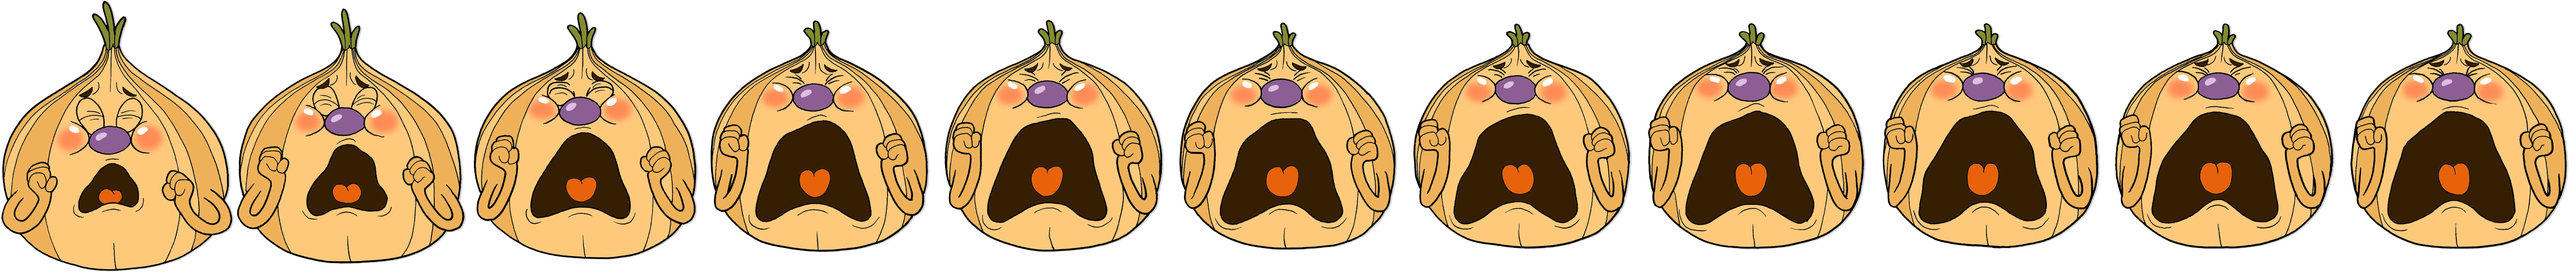
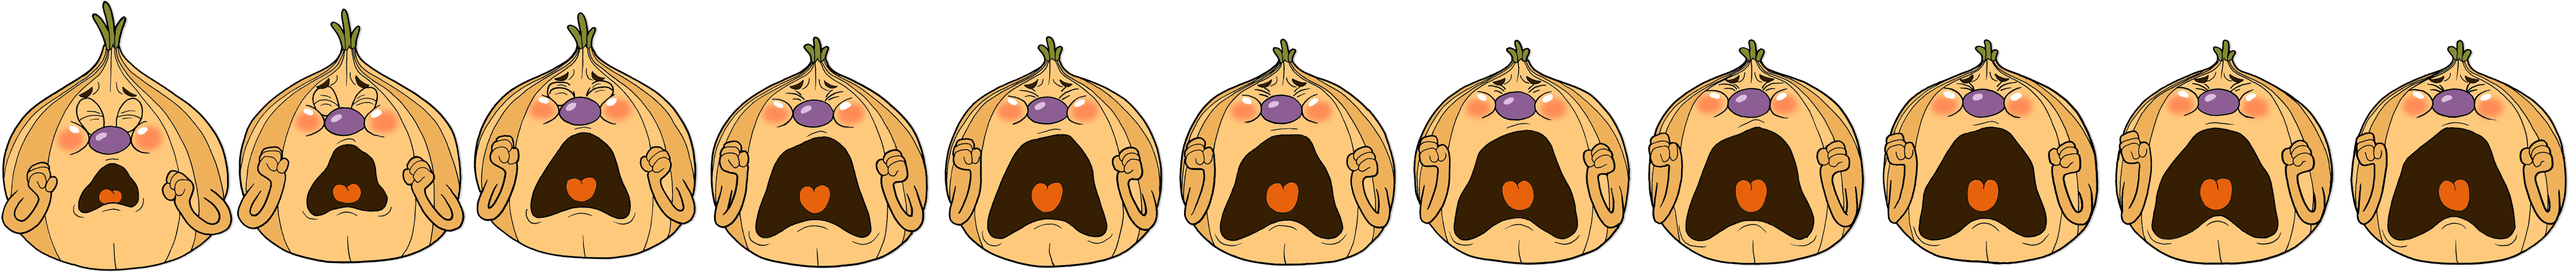
양파 공격 모션 수정

Changed region(s): [[0.2492, 0.0889, 0.9969, 1.0]]

diff --git a/Cuphead/Contents/Onion.cpp b/Cuphead/Contents/Onion.cpp
@@ -67,10 +67,11 @@ void AOnion::BeginPlay()
 	RendererInit();
 	StateInit();
 
-	SetActorLocation({0.0f, -325.0f});
+	SetActorLocation({0.0f, -335.0f});
 
-	LeftTearRenderer->SetPosition({-300.0f, 350.0f});
-	RightTearRenderer->SetPosition({300.0f, 350.0f});
+	GroundRenderer->SetPosition({ 0.0f, -35.0f });
+	LeftTearRenderer->SetPosition({-350.0f, 555.0f});
+	RightTearRenderer->SetPosition({330.0f, 555.0f});
 }
 
 void AOnion::Tick(float _DeltaTime)
@@ -122,6 +123,14 @@ void AOnion::RendererInit()
 		OnionRenderer->ChangeAnimation("onion_cry_loop");
 	});
 
+	LeftTearRenderer->SetFrameCallback("onion_tear_start", 4, [this]() {
+		LeftTearRenderer->ChangeAnimation("onion_tear_loop");
+	});
+
+	RightTearRenderer->SetFrameCallback("onion_tear_start", 4, [this]() {
+		RightTearRenderer->ChangeAnimation("onion_tear_loop");
+	});
+
 	OnionRenderer->SetOrder(ERenderingOrder::Back5);
 	GroundRenderer->SetOrder(ERenderingOrder::Back6);
 	LeftTearRenderer->SetOrder(ERenderingOrder::Back6);
@@ -131,9 +140,9 @@ void AOnion::RendererInit()
 	GroundRenderer->SetPivot(EPivot::BOT);
 
 	OnionRenderer->SetAutoSize(1.0f, true);
-	GroundRenderer->SetAutoSize(1.5f, true);
-	LeftTearRenderer->SetAutoSize(1.0f, true);
-	RightTearRenderer->SetAutoSize(1.0f, true);
+	GroundRenderer->SetAutoSize(1.25f, true);
+	LeftTearRenderer->SetAutoSize(0.95f, true);
+	RightTearRenderer->SetAutoSize(0.95f, true);
 
 	LeftTearRenderer->SetDir(EEngineDir::Left);
 }
